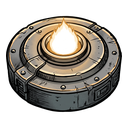
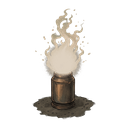
Habillage — HUD : le HUD de match dans la pâte, icônes de gadget iso
Étape 4 du chantier Habillage iso.

La plage du HUD d'ui.gd (des classes internes à _build_status_bar) quitte
les neutres d'appareil pour les rôles de la pâte ; ses couleurs chiffrées
descendent de la charte ; ses textes passent au papier. La lumière reste
halogène là où elle est de la lumière : cercle de recharge, jauge d'une
réserve, curseurs.

Les panneaux joueur et chrono (ComicHudPanel, par leur _draw — test_hud_style
refuse une StyleBoxTexture), la cartouche de torche et les deux cartouches de
réserve prennent le grain de la pâte ; leurs libellés, enfants, restent
nets, et le matériau survit aux styles que _set_*_style remplace à chaque
image. Les dix icônes de gadget sont celles du lot C d'ISO Assets, préparées
comme les portraits.

Aucune information de plus : mêmes champs, même disposition, masquage du
panneau adverse en ligne intact.

Preuves : test_habillage relit la plage du HUD bornée par ses marqueurs
(aucun neutre d'appareil, aucune couleur chiffrée) et exige la pâte sur les
panneaux ; test_hud_style vert ; captures avant/après ; lot complet vert.

diff --git a/docs/ROADMAP.md b/docs/ROADMAP.md
@@ -23866,6 +23866,42 @@ fiche montre bien le portrait de la première classe. `test_classes` (qui exige 
 pour les dix) reste vert.
 
 
+#### Étape 4 — le HUD de match ✅ (2026-09-15)
+
+**Ce qui est posé.**
+- **`ui.gd`, la plage du HUD** (de la classe `CircularCooldown` à `_build_status_bar`) : les
+  neutres d'appareil passent aux rôles de la pâte ; les couleurs chiffrées descendent de la
+  charte (ombres `MenuWidgets.SHADOW_COLOR_DEFAULT` et `PATE_OMBRE`, modulations
+  `Color(Color.WHITE, a)`) ; les textes halogènes passent à `COLOR_LUMIERE`. **La lumière reste
+  halogène** : le cercle de recharge (couleur du joueur), la jauge d'une réserve, les curseurs.
+- **La pâte sur les panneaux** : panneaux joueur et chrono (`ComicHudPanel`, par son `_draw` — pas
+  de `StyleBoxTexture`, que `test_hud_style` refuse), cartouche de torche, cartouches de fusées et
+  de gadget. Les libellés, enfants, restent nets. Le matériau vit sur le NŒUD : les styles
+  remplacés à chaque image par `_set_*_style` ne l'effacent pas.
+- **Dix icônes de gadget iso** (lot C d'ISO Assets, `2129a89` ; suie et braises regénérées en
+  `21e16d4`, rognées à la source la première fois), préparées à 128 px avec le même détourage et
+  le même virage que les portraits. La fiche de classe les montre aussi.
+- **Aucune information de plus** : mêmes libellés, mêmes champs, même disposition ; le masquage du
+  panneau adverse en ligne (`disposer_hud`) n'est pas touché.
+
+**Preuves.** `tools/test_habillage.gd` relit la plage du HUD — bornée par ses MARQUEURS, jamais
+par des numéros de ligne — et y refuse tout neutre d'appareil et toute couleur chiffrée ; il exige
+la pâte sur les panneaux joueur et sur la cartouche du chrono. `test_hud_style` (liseré à la
+couleur du joueur, pas de `StyleBoxTexture`) reste vert. Captures du HUD avant/après sur la planche.
+Lot complet : **rouge au premier passage** sur `duo_reconnexion` seul (« le salon rouvert accepte le
+retour », côté hôte ; aucune erreur de script dans les journaux) — l'intermittent déjà consigné plus haut
+(ISO2 et famille 4.1), qui dépend du tempo de la machine. Relancé en entier sur l'arbre inchangé : **vert,
+tout passe, 403 s**. Le commit s'est fait sur ce second lot, jamais sur le premier.
+
+**Pièges.**
+- ⚠ **L'`awk` de macOS ignore `\b`, comme son `sed`** : un relevé des neutres par `awk` est revenu
+  VIDE sur une plage qui en comptait une cinquantaine. Le `grep` de macOS, lui, le comprend. Un
+  relevé vide se revérifie par un autre outil avant de se croire.
+- ⚠ **Un contrôle borné par numéros de ligne relit autre chose à l'étape suivante** : chaque étape
+  ajoute des lignes à `ui.gd`. Bornes par marqueurs (`class CircularCooldown`,
+  `func _build_status_bar`), et un contrôle qui échoue si les marqueurs disparaissent.
+
+
 ## Chantier — murs bas et accroupi (inscrit le 2026-09-14)
 
 **Vue de dessus, sur `main`.** Né du jalon H15 de la vue isométrique (tranché le

diff --git a/docs/JOURNAL_SESSIONS.md b/docs/JOURNAL_SESSIONS.md
@@ -5081,3 +5081,9 @@ du hub et quatre portraits, dont un à recadrer.
 remplacent le sprite vu de dessus dans la fiche de classe et sur l'affiche du match
 (`MenuFicheClasse.chemin_portrait`). La règle qui justifiait le sprite — montrer la silhouette que
 l'adversaire découpe — demande désormais le portrait : en iso, cette silhouette est le corps voxel.
+
+**Étape 4 (même session, même branche) :** le HUD de match passe à la pâte — neutres d'appareil et couleurs
+chiffrées retirés de sa plage d'`ui.gd`, matière sur ses panneaux et cartouches, dix icônes de gadget iso.
+Pour garder un commit par étape sans worktree de plus, les étapes suivantes attendaient dans un patch
+binaire pendant que le lot tournait sur l'état exact commité ; le patch se réapplique ensuite fichier par
+fichier, en ne retenant que les chemins de l'étape.
